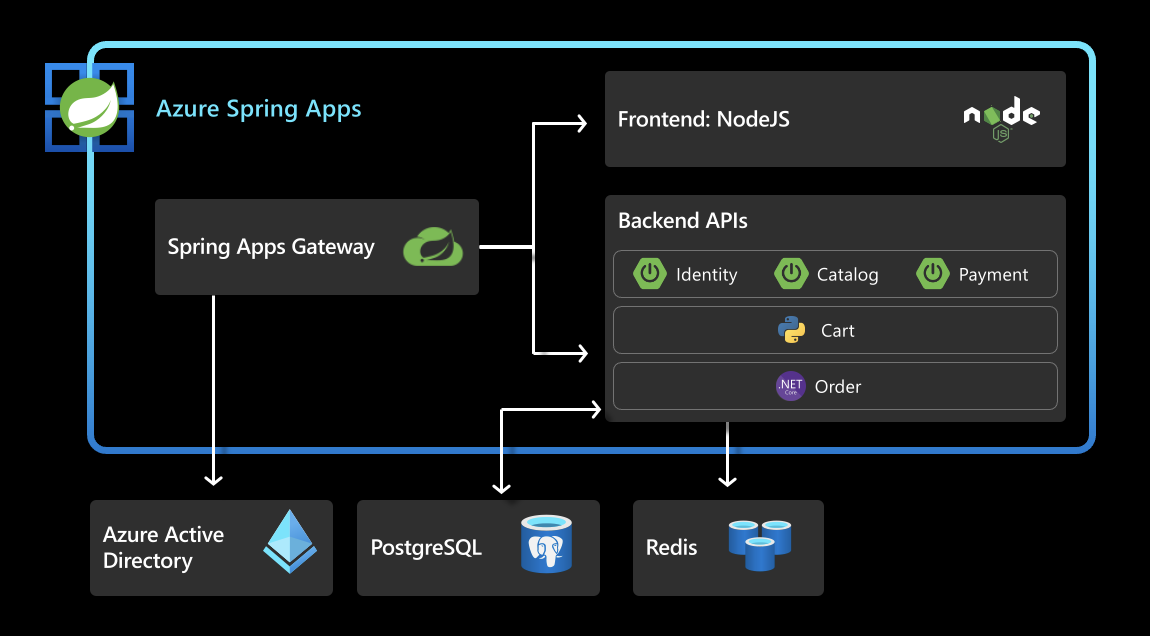
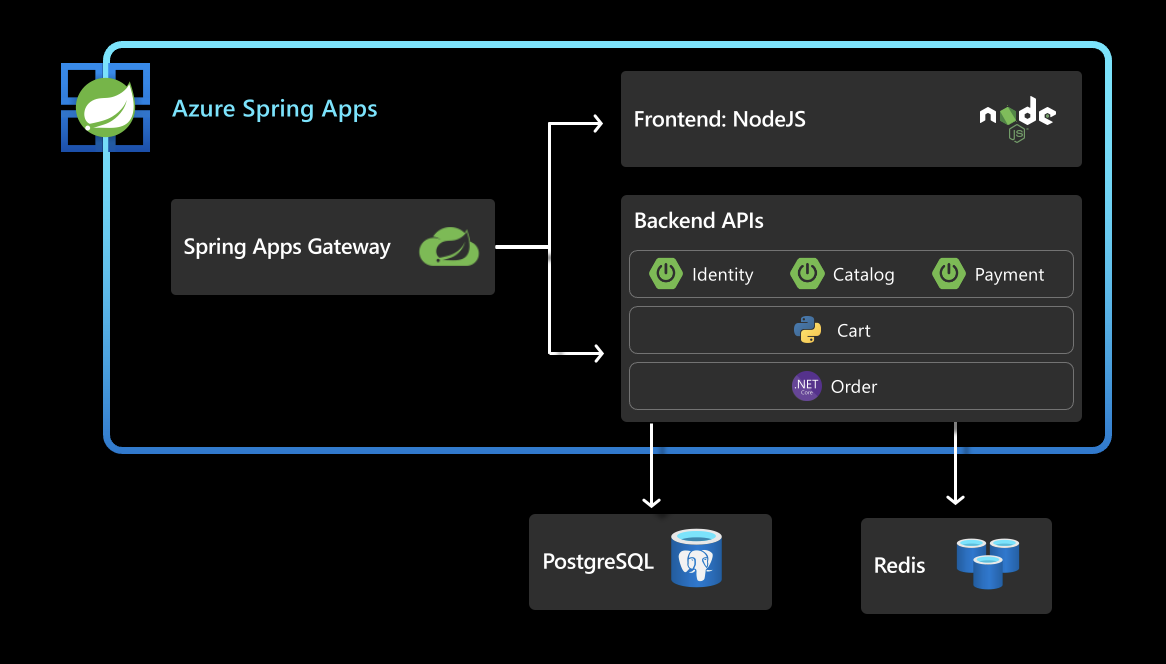
updated diagrams for different steps

Changed region(s): [[0.0304, 0.0597, 0.9739, 0.956]]

diff --git a/workshops/azure-spring-apps-enterprise/full/08-hol-2-deploy-frontend-app/README.md b/workshops/azure-spring-apps-enterprise/full/08-hol-2-deploy-frontend-app/README.md
@@ -1,7 +1,7 @@
 In the previous section we deployed a simple hello-world service to asa-e instance. In this section we are going to deploy the frontend of acme-fitness, configure that with Spring Cloud Gateway and validate that we are able to access the frontend. 
 
 This diagram below shows the final result once this section is complete:
-![diagram](images/just-services.png)
+![diagram](images/frontend.png)
 
 Below are the diffrent steps that we configure/create to successfully deploy the services/apps
 - [1. Configure sampling rate for Application Insights](#1-configure-sampling-rate-for-application-insights)

diff --git a/workshops/azure-spring-apps-enterprise/full/09-hol-3.1-deploy-backend-apps/README.md b/workshops/azure-spring-apps-enterprise/full/09-hol-3.1-deploy-backend-apps/README.md
@@ -1,7 +1,7 @@
 In this section we are going to deploy the backend apps for acme-fitness application. We also updates the rules for these backend apps in Spring Cloud Gateway.
 
 This diagram below shows the final result once this section is complete:
-![diagram](images/just-services.png)
+![diagram](images/scg-frontend-backend.png)
 
 Below are the diffrent steps that we configure/create to successfully deploy the services/apps
 - [1. Create backend apps](#1-create-backend-apps)

diff --git a/workshops/azure-spring-apps-enterprise/full/10-hol-3.2-bind-apps-to-acs-service-reg/README.md b/workshops/azure-spring-apps-enterprise/full/10-hol-3.2-bind-apps-to-acs-service-reg/README.md
@@ -1,7 +1,5 @@
 In this section we are going to bind the backend apps that were deployed in the previous section to Application Config Service and Service Registry.
 
-This diagram below shows the final result once this section is complete:
-![diagram](images/just-services.png)
 
 Below are the diffrent steps to bind apps to Application Configuration Service and Service Registry.
 - [1. Create Application Configuration Service](#1-create-application-configuration-service)

diff --git a/workshops/azure-spring-apps-enterprise/full/12-hol-3.4-configure-single-signon/README.md b/workshops/azure-spring-apps-enterprise/full/12-hol-3.4-configure-single-signon/README.md
@@ -1,7 +1,7 @@
 In this Unit, you will configure Single Sign-On for Spring Cloud Gateway using Azure Active Directory or an existing Identity Provider.
 
 Once this section is complete, the architecture looks as below:
-![architecture](images/scg-sso.png) 
+![architecture](images/scg-sso-services.png) 
 
 ## 1. Register Application with Azure AD
 
